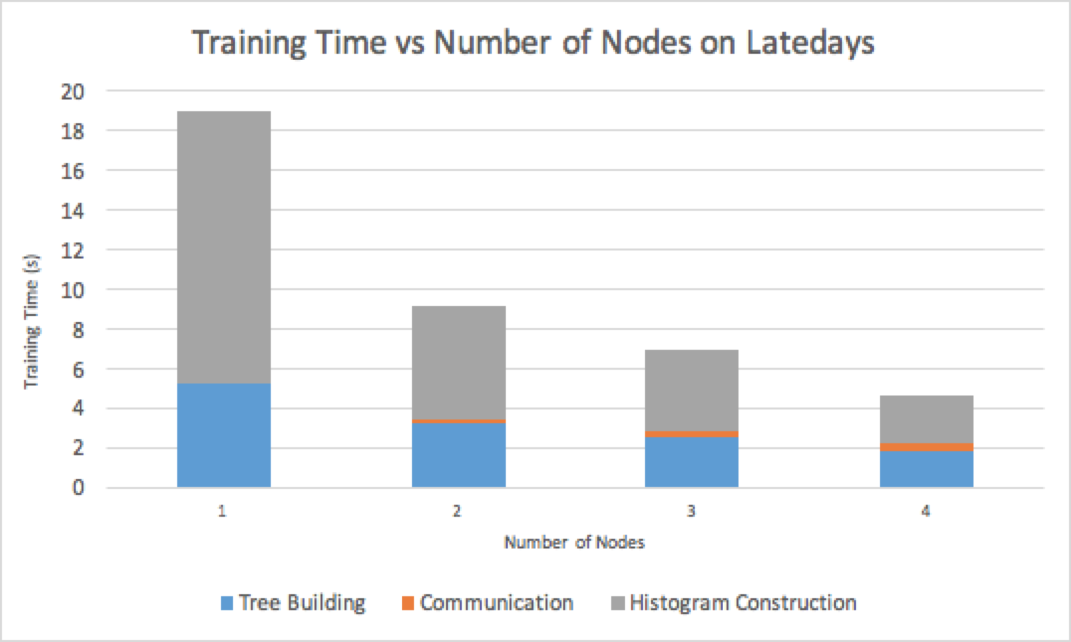
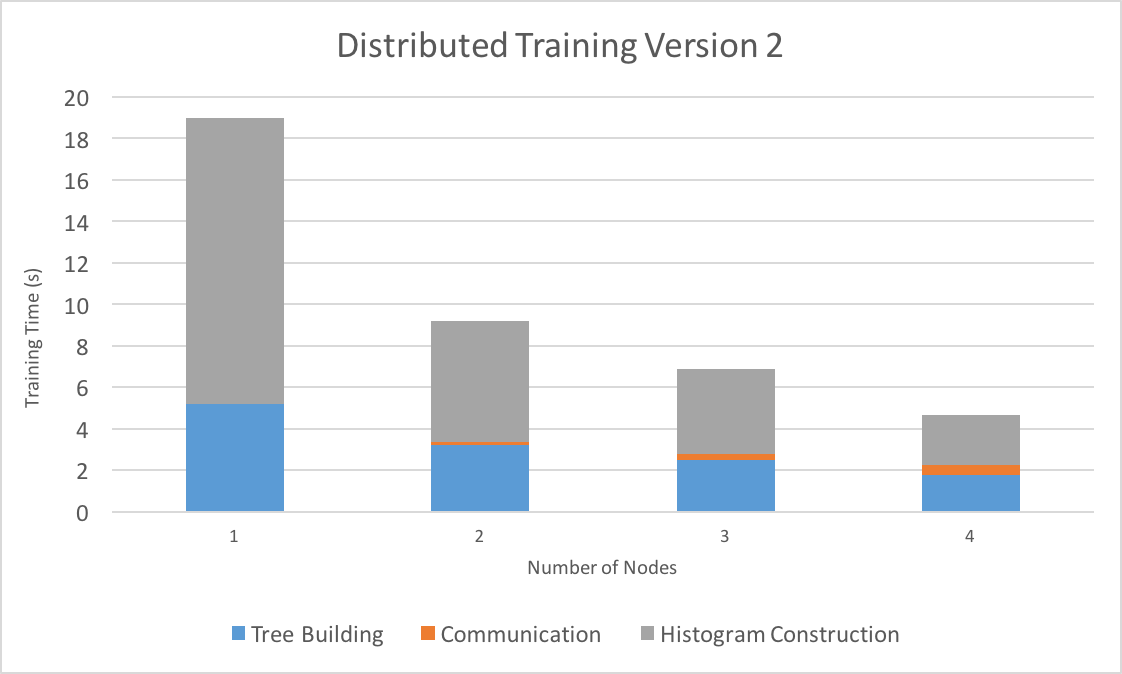
updating distributed stuff

diff --git a/index.md b/index.md
@@ -280,32 +280,34 @@ the two expensive areas as mentioned previously:
 
 We used OpenMP to parallelize these two areas across features. Since building
 histograms and constructing child histograms requires scanning over
-the distributions of every histogram bin of every feature, this leads to a
-roughly balanced workload. The graph below shows the training times of this
-parallel algorithm run on different numbers of threads. Experiments were
-performed on GHC and the Microsft Learn to Rank dataset.
+the distributions of every histogram bin of every feature, this should
+lead to a roughly balanced workload.
 
 ##### Result
+
+The graph below shows the training times of the parallel algorithm run on
+different numbers of threads. Experiments were performed on GHC and the
+Microsft Learn to Rank dataset.
 
 ![OpenMP](assets/runtime-openmp.png)
 
 The graph above at first displays near-linear speedup, especially for
 histogram construction across different features. We suspect that the eventual
-dissipation of speedup is very likely due to memory bandwidth issues, since
-histogram construction is trivially parallelizable across features and needs
-minimal synchronization. To solve this problem, we decided to utilize more
-resources available to use here at CMU, specifically via distributed training and
-GPU/hybrid training.
+dissipation of speedup is very likely due to maxing out on memory bandwidth,
+since parallelizing histogram construction across features needs
+minimal synchronization but requires accessing a lot of memory.
+To solve this problem, we decided to utilize more resources available to us here at CMU,
+such as distributed cluster machines on Latedays and GPUs on GHC machines.
 
 ### Distributing Training with Multiple Machines
 
 #### Approach
 
-A major concern we had initially, communication efficiency of distributed
-training, is somewhat alleviated by our histogram representation of the dataset.
-This allows multiple machines to communicate with histograms instead of
-their partition of the dataset, drastically reducing the communication
-requirements.
+The communication efficiency of distributed
+training, was a major concern we had initially, but it is somewhat alleviated by
+our histogram representation of the dataset. This allows multiple machines to
+communicate with histogram statistics instead of their the dataset statistics,
+drastically reducing the communication requirements.
 
 Our first distributed algorithm roughly works as follows:
 
@@ -338,7 +340,7 @@ computations on each worker before communicating with master. The algorithm is
 now roughly as follows (steps 1 and 2 same as before):
 
 3. While there are still nodes to be split, each worker first uses their local
-   histogram to evaluate possible split points.
+   histograms to evaluate possible split points.
 
 4. Each worker votes for their top k features, where k is a configurable
    parameter.
@@ -359,11 +361,26 @@ like before.
 #### Result
 
 We evaluated the two algorithms on the Latedays cluster with a varying number of
-nodes.
+nodes. We again used the Microsoft Learn to Rank dataset (2 million samples, 136
+features) to evaluate training time.
 
 ![OpenMPI](assets/runtime-openmpi.png)
 
 ![OpenMPI-v2](assets/runtime-openmpi2.png)
+
+In the first graph, which shows training times for the first distributed
+algorithm,  we can see that distributing training to 2 nodes gives us good speedup.
+Communication time, however, starts to dominate after 2 nodes to such a degree that total
+training time actually starts to increase. The time to
+actually construct the tree goes up as well, since with more nodes there
+are more split points to consider, outweighing the advantages we get from
+parallelizing histogram construction and splitting.
+
+In the second graph, which shows training times for the second distributed
+algorithm, we can see that the voting scheme reduces communication and
+tree building time drastically, leading to good scaling beyond just 2 nodes.
+When running on 4 nodes, training finishes in 4.66 seconds, which is about
+a 4x speedup over running on 1 node.
 
 ### GPU and Hybrid Implementation
 
